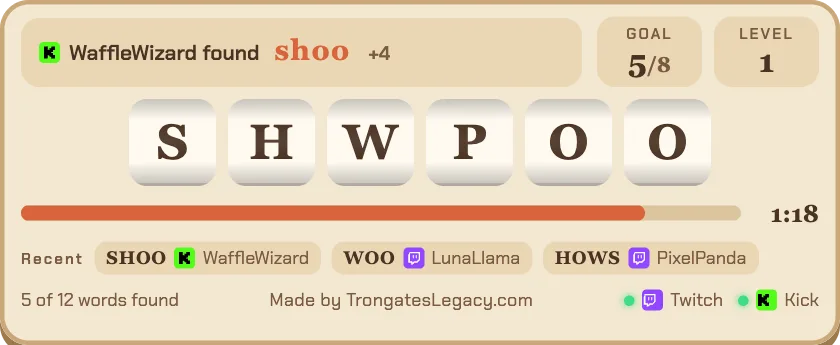
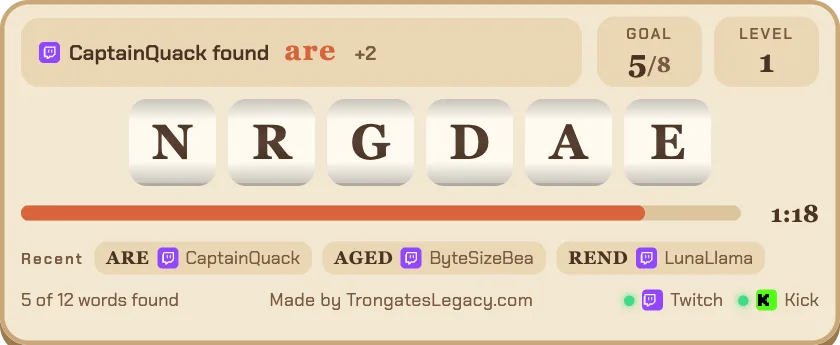
Chatagram's pictures (theme previews, share image) use hand-checked friendly puzzles (HEART, GARDEN, CLOVERS) instead of whatever the seeded puzzle was (it was WHOOPS, with 'poo'); test

diff --git a/public/chatagram/play.js b/public/chatagram/play.js
@@ -45,7 +45,9 @@
   let offset = 0, frozen = 0;                                      // tests move time on; still pictures stop it
   const now = () => (frozen || Date.now()) + offset;
   const queue = [];
-  const game = C.game(cfg, { dict, seeds, now, random: still ? seeded : Math.random, emit: (e) => queue.push(e) });
+  // still pictures (the site's previews, the share image) always show a hand-checked, friendly puzzle
+  const STILL_SEEDS = { easy: 'heart', normal: 'garden', hard: 'clovers' };
+  const game = C.game(cfg, { dict, seeds, now, random: still ? seeded : Math.random, emit: (e) => queue.push(e), firstSeed: still ? STILL_SEEDS[cfg.diff] : null });
   const SAVE = `chatagram:v1:${channels.twitch}|${channels.kick}`;
   let saved = null;
   if (!demo && !still) try { saved = JSON.parse(localStorage.getItem(SAVE) || 'null'); } catch {}

diff --git a/public/chatagram/game.js b/public/chatagram/game.js
@@ -63,7 +63,8 @@
       const all = (deps.seeds[cfg.diff] && deps.seeds[cfg.diff][len]) || [];
       let pool = all.filter((w) => !block.has(w) && !s.recent.includes(w));
       if (!pool.length) pool = all.filter((w) => !block.has(w));
-      const seed = pick(pool);
+      // deps.firstSeed: the first puzzle's word, when a caller wants a known one (the pictures on the site)
+      const seed = deps.firstSeed && !s.recent.length && all.includes(deps.firstSeed) ? deps.firstSeed : pick(pool);
       const { board: every, bonus } = Wd.solve(seed, deps.dict, { tier: d.tier, minLen: cfg.minlen, block });
       const { shown: board } = pickSlots(every, seed);
       s.recent = [seed, ...s.recent].slice(0, 60);
